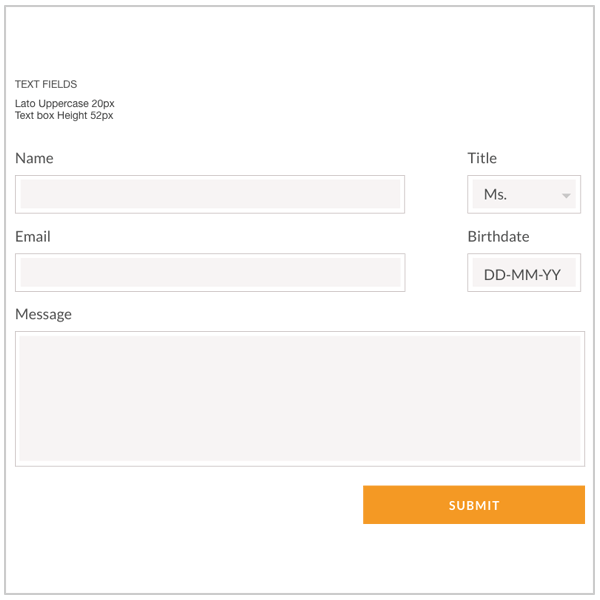
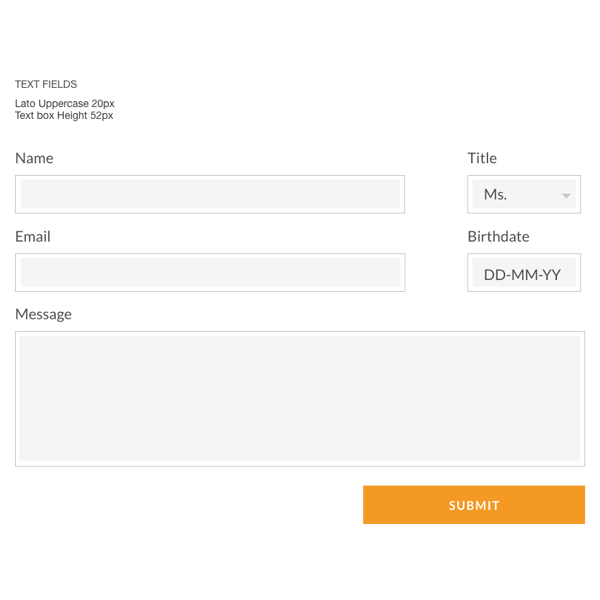
work on the ffs final styleguide

Changed region(s): [[0.0, 0.0, 1.0, 1.0]]

diff --git a/foodforsoul.html b/foodforsoul.html
@@ -217,12 +217,12 @@
        <div class="project_content">
         
           <div class="content_image_container">
-              <img src="/img/food_for_soul_img/styleguide/styleguide3.png" alt="quotes-treatment" class="content_image" >
+              <img src="/img/food_for_soul_img/styleguide/styleguide3.png" alt="quotes-treatment" class="content_image light_border" >
               <p>Quotes treatment</p>
           </div>
           
           <div class="content_image_container">
-              <img src="/img/food_for_soul_img/styleguide/styleguide2.png" alt="ffs-form" class="content_image" >
+              <img src="/img/food_for_soul_img/styleguide/styleguide2.png" alt="ffs-form" class="content_image light_border" >
               <p>Application Form</p>
           </div>
 
@@ -231,12 +231,16 @@
         <div class="project_content">
           
           <div class="content_image_container">
-              <img src="/img/food_for_soul_img/styleguide/styleguide1.png" alt="ffs-type-styleguide"class="content_image" >
+              <img src="/img/food_for_soul_img/styleguide/styleguide1.png" alt="ffs-type-styleguide"class="content_image light_border" >
               <p>Typefaces</p>
           </div>
 
+        </div>
+        
+        <div class="project_content">
+
           <div class="content_image_container">
-              <img src="/img/food_for_soul_img/styleguide/image-treatment.png" alt="img-treatment" class="content_image" >
+              <img src="/img/food_for_soul_img/styleguide/image-treatment.png" alt="img-treatment" class="content_image light_border" >
               <p>Photographic Treatment</p>
           </div>
 

diff --git a/buth_portfolio.css b/buth_portfolio.css
@@ -509,6 +509,10 @@ footer{
   margin: 0 auto;
 }
 
+.light_border{
+  border: 1px solid lightgray;
+}
+
 /* about me page */
 
 .abtme_main{
